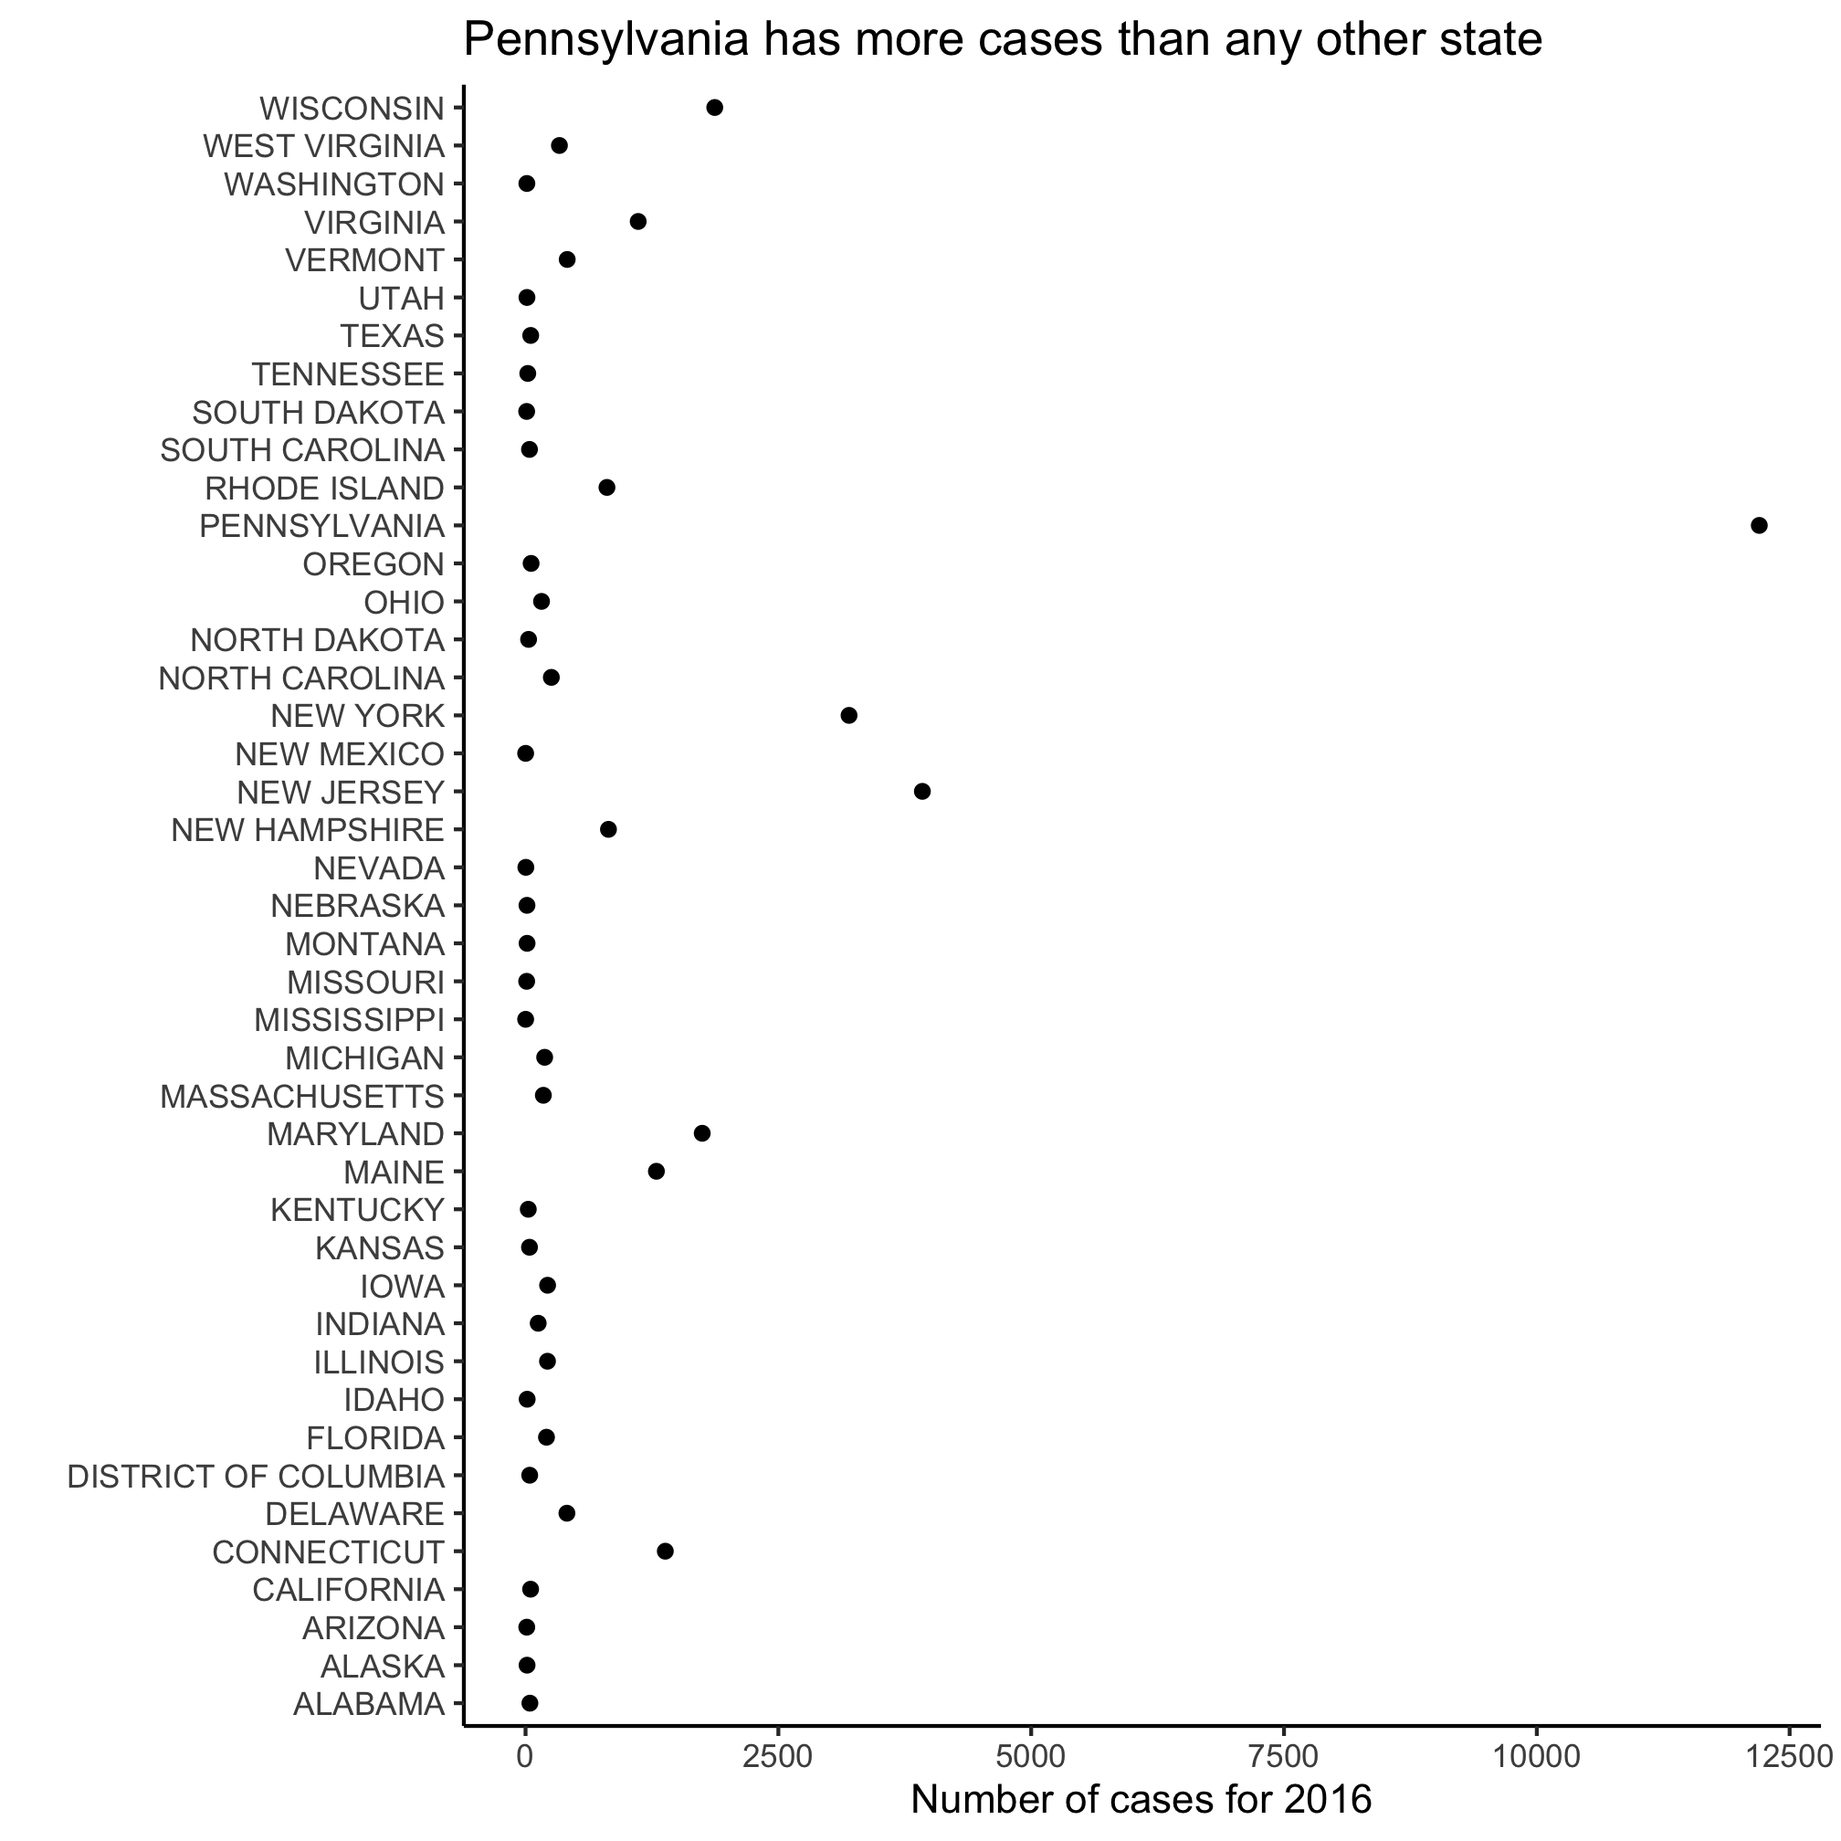
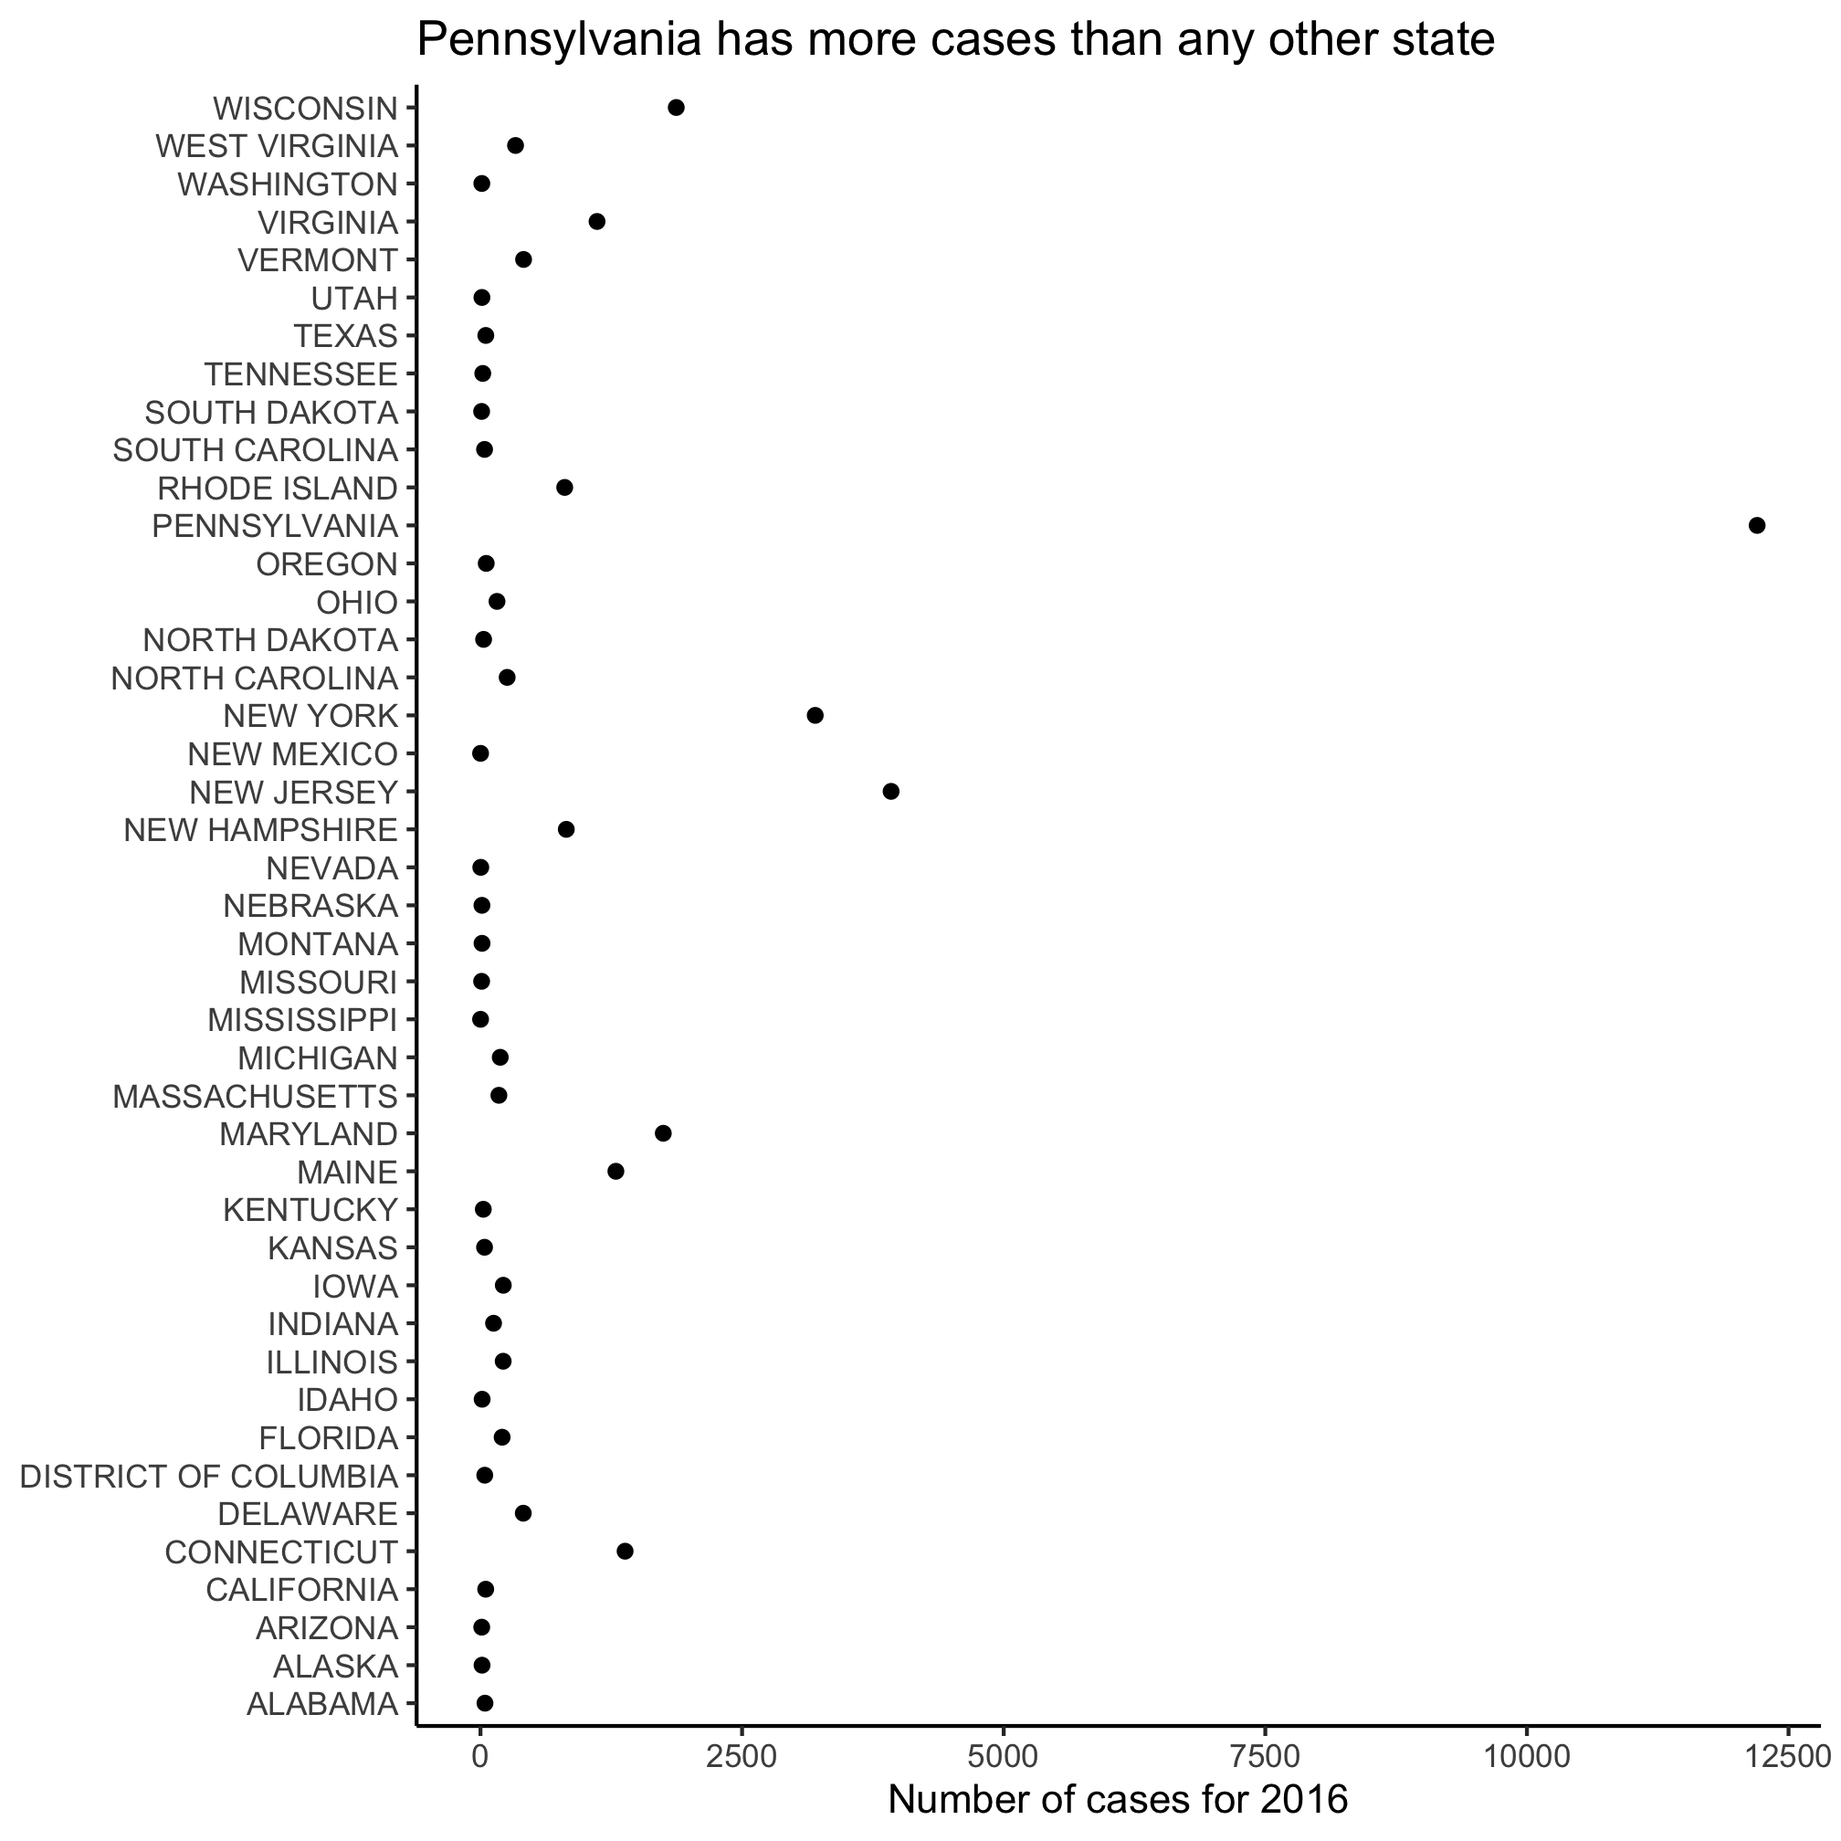
Fix tabbing issues

diff --git a/05_session.md b/05_session.md
@@ -23,7 +23,7 @@ library(tidyverse)
 library(lubridate)
 
 annual_state_counts <- read_csv("project_tycho/US.23502006.csv",
-					col_type=cols(PartOfCumulativeCountSeries = col_logical())) %>%
+			col_type=cols(PartOfCumulativeCountSeries = col_logical())) %>%
 	filter(PartOfCumulativeCountSeries) %>%
 	mutate(year = year(PeriodStartDate+7)) %>%
 	group_by(year, Admin1Name) %>%
@@ -90,7 +90,7 @@ I'd like to return to a line plot to represent these data, but I only want to de
 
 ```r
 read_csv("project_tycho/US.23502006.csv",
-					col_type=cols(PartOfCumulativeCountSeries = col_logical())) %>%
+			col_type=cols(PartOfCumulativeCountSeries = col_logical())) %>%
 	filter(PartOfCumulativeCountSeries, Admin1Name=="MICHIGAN")
 ```
 
@@ -119,7 +119,7 @@ read_csv("project_tycho/US.23502006.csv",
 
 ```r
 read_csv("project_tycho/US.23502006.csv",
-					col_type=cols(PartOfCumulativeCountSeries = col_logical())) %>%
+			col_type=cols(PartOfCumulativeCountSeries = col_logical())) %>%
 	filter(PartOfCumulativeCountSeries) %>%
 	filter(Admin1Name=="MICHIGAN")
 ```
@@ -151,7 +151,7 @@ Can you figure out how to know that these commands did what we hoped? If you wer
 
 ```r
 read_csv("project_tycho/US.23502006.csv",
-					col_type=cols(PartOfCumulativeCountSeries = col_logical())) %>%
+			col_type=cols(PartOfCumulativeCountSeries = col_logical())) %>%
 	filter(PartOfCumulativeCountSeries, Admin1Name=="MICHIGAN") %>%
 	count(Admin1Name)
 ```
@@ -168,7 +168,7 @@ In the first example we ask for those rows where `PartOfCumulativeCountSeries` i
 
 ```r
 read_csv("project_tycho/US.23502006.csv",
-					col_type=cols(PartOfCumulativeCountSeries = col_logical())) %>%
+			col_type=cols(PartOfCumulativeCountSeries = col_logical())) %>%
 	filter(PartOfCumulativeCountSeries & Admin1Name=="MICHIGAN") %>%
 	count(Admin1Name)
 ```
@@ -185,7 +185,7 @@ We also often want to ask "or" type questions. For example, "Does this row conta
 
 ```r
 read_csv("project_tycho/US.23502006.csv",
-					col_type=cols(PartOfCumulativeCountSeries = col_logical())) %>%
+			col_type=cols(PartOfCumulativeCountSeries = col_logical())) %>%
 	filter(PartOfCumulativeCountSeries) %>%
 	filter(Admin1Name=="PENNSYLVANIA" | Admin1Name=="MICHIGAN" | Admin1Name=="MISSOURI" ) %>%
 	count(Admin1Name)
@@ -205,7 +205,7 @@ It is perfectly acceptable to have two filter lines as we do here. Perhaps you'd
 
 ```r
 read_csv("project_tycho/US.23502006.csv",
-					col_type=cols(PartOfCumulativeCountSeries = col_logical())) %>%
+			col_type=cols(PartOfCumulativeCountSeries = col_logical())) %>%
 	filter(PartOfCumulativeCountSeries & (Admin1Name=="PENNSYLVANIA" | Admin1Name=="MICHIGAN" | Admin1Name=="MISSOURI")) %>%
 	count(Admin1Name)
 ```
@@ -224,7 +224,7 @@ There is a tradeoff between readability and code efficiency, but the key is that
 
 ```r
 annual_state_counts <- read_csv("project_tycho/US.23502006.csv",
-					col_type=cols(PartOfCumulativeCountSeries = col_logical())) %>%
+			col_type=cols(PartOfCumulativeCountSeries = col_logical())) %>%
 	filter(PartOfCumulativeCountSeries & (Admin1Name=="PENNSYLVANIA" | Admin1Name=="MICHIGAN" | Admin1Name=="MISSOURI")) %>%
 	mutate(year = year(PeriodStartDate+7)) %>%
 	group_by(year, Admin1Name) %>%
@@ -235,8 +235,8 @@ ggplot(annual_state_counts, aes(x=year, y=count, color=Admin1Name)) +
 	scale_y_continuous(limits=c(0,NA)) +
 	scale_x_continuous(breaks=c(1990, 1995, 2000, 2005, 2010, 2015)) +
 	labs(x="Year",
-			y="Annual number of cases",
-			title="The number of Lyme disease cases continues to increase each year") +
+		y="Annual number of cases",
+		title="The number of Lyme disease cases continues to increase each year") +
 	theme_classic()
 ```
 
@@ -266,7 +266,7 @@ First, `letters` is a variable built into R that contains the 26 lowercase lette
 upper_midwest_states <- c("MICHIGAN", "OHIO", "INDIANA", "WISCONSIN")
 
 annual_state_counts <- read_csv("project_tycho/US.23502006.csv",
-					col_type=cols(PartOfCumulativeCountSeries = col_logical())) %>%
+			col_type=cols(PartOfCumulativeCountSeries = col_logical())) %>%
 	filter(PartOfCumulativeCountSeries) %>%
  	filter(Admin1Name %in% upper_midwest_states) %>%
 	mutate(year = year(PeriodStartDate+7)) %>%
@@ -278,8 +278,8 @@ ggplot(annual_state_counts, aes(x=year, y=count, color=Admin1Name)) +
 	scale_y_continuous(limits=c(0,NA)) +
 	scale_x_continuous(breaks=c(1990, 1995, 2000, 2005, 2010, 2015)) +
 	labs(x="Year",
-			y="Annual number of cases",
-			title="The number of Lyme disease cases in Wisconsin has been higher\nthan other states in the upper midwest") +
+		y="Annual number of cases",
+		title="The number of Lyme disease cases in Wisconsin has been higher\nthan other states in the upper midwest") +
 	theme_classic()
 ```
 
@@ -296,7 +296,7 @@ We're going to move on to a different dataset in the next section. Before we do,
 states_map <- map_data("state")
 
 read_csv("project_tycho/US.23502006.csv",
-					col_type=cols(PartOfCumulativeCountSeries = col_logical())) %>%
+			col_type=cols(PartOfCumulativeCountSeries = col_logical())) %>%
 	filter(PartOfCumulativeCountSeries) %>%
 	mutate(year = year(PeriodStartDate+7)) %>%
 	group_by(year, Admin1Name) %>%
@@ -353,7 +353,7 @@ Things that still might look foreign...
 new_england <- c("MAINE", "VERMONT", "NEW HAMPSHIRE", "MASSACHUSETTS", "RHODE ISLAND", "CONNECTICUT")
 
 annual_state_counts <- read_csv("project_tycho/US.23502006.csv",
-					col_type=cols(PartOfCumulativeCountSeries = col_logical())) %>%
+			col_type=cols(PartOfCumulativeCountSeries = col_logical())) %>%
 	filter(PartOfCumulativeCountSeries) %>%
  	filter(Admin1Name %in% new_england) %>%
 	mutate(year = year(PeriodStartDate+7)) %>%
@@ -365,8 +365,8 @@ ggplot(annual_state_counts, aes(x=year, y=count, color=Admin1Name)) +
 	scale_y_continuous(limits=c(0,NA)) +
 	scale_x_continuous(breaks=c(1990, 1995, 2000, 2005, 2010, 2015)) +
 	labs(x="Year",
-			y="Annual number of cases",
-			title="Connecticut continues to have a significant number of Lyme Disease cases") +
+		y="Annual number of cases",
+		title="Connecticut continues to have a significant number of Lyme Disease cases") +
 	theme_classic()
 ```
 
@@ -380,7 +380,7 @@ ggplot(annual_state_counts, aes(x=year, y=count, color=Admin1Name)) +
 
 ```r
 state_counts <- read_csv("project_tycho/US.23502006.csv",
-					col_type=cols(PartOfCumulativeCountSeries = col_logical())) %>%
+			col_type=cols(PartOfCumulativeCountSeries = col_logical())) %>%
 	filter(PartOfCumulativeCountSeries) %>%
 	mutate(year = year(PeriodStartDate+7)) %>%
 	filter(year == 2016) %>%
@@ -391,8 +391,8 @@ ggplot(state_counts, aes(y=Admin1Name, x=count)) +
 	geom_point() +
 	scale_x_continuous(limits=c(0,NA)) +
 	labs(x="Number of cases for 2016",
-			y="",
-			title="Pennsylvania has more cases than any other state") +
+		y=NULL,
+		title="Pennsylvania has more cases than any other state") +
 	theme_classic()
 ```
 
@@ -428,7 +428,7 @@ chartr("ATGC", "TACG", dna)
 states_map <- map_data("state")
 
 read_csv("project_tycho/US.23502006.csv",
-					col_type=cols(PartOfCumulativeCountSeries = col_logical())) %>%
+			col_type=cols(PartOfCumulativeCountSeries = col_logical())) %>%
 	filter(PartOfCumulativeCountSeries) %>%
 	mutate(year = year(PeriodStartDate+7)) %>%
 	group_by(year, Admin1Name) %>%
@@ -451,7 +451,7 @@ read_csv("project_tycho/US.23502006.csv",
 states_map <- map_data("state", region = "michigan")
 
 read_csv("project_tycho/US.23502006.csv",
-					col_type=cols(PartOfCumulativeCountSeries = col_logical())) %>%
+			col_type=cols(PartOfCumulativeCountSeries = col_logical())) %>%
 	filter(PartOfCumulativeCountSeries) %>%
 	mutate(year = year(PeriodStartDate+7)) %>%
 	group_by(year, Admin1Name) %>%

diff --git a/02_session.md b/02_session.md
@@ -34,8 +34,8 @@ ggplot(annual_counts, aes(x=year, y=count)) +
 	scale_y_continuous(limits=c(0,NA)) +
 	scale_x_continuous(breaks=c(1990, 1995, 2000, 2005, 2010, 2015)) +
 	labs(x="Year",
-			y="Number of cases",
-			title="The number of Lyme disease cases has been rising since 1990") +
+		y="Number of cases",
+		title="The number of Lyme disease cases has been rising since 1990") +
 	theme_classic()
 ```
 
@@ -49,8 +49,8 @@ ggplot(annual_counts, aes(x=year, y=count)) +
 	scale_y_continuous(limits=c(0,NA)) +
 	scale_x_continuous(breaks=c(1990, 1995, 2000, 2005, 2010, 2015)) +
 	labs(x="Year",
-			y="Number of cases",
-			title="The number of Lyme disease cases has been rising since 1990") +
+		y="Number of cases",
+		title="The number of Lyme disease cases has been rising since 1990") +
 	theme_classic()
 ```
 
@@ -95,8 +95,8 @@ ggplot(annual_counts, aes(x=year, y=count)) +
 	scale_y_continuous(limits=c(0,NA)) +
 	scale_x_continuous(breaks=c(1990, 1995, 2000, 2005, 2010, 2015)) +
 	labs(x="Year",
-			y="Number of cases",
-			title="The number of Lyme disease cases has been rising since 1990") +
+		y="Number of cases",
+		title="The number of Lyme disease cases has been rising since 1990") +
 	theme_classic()
 ```
 
@@ -111,8 +111,8 @@ ggplot(annual_counts, aes(x=year, y=count)) +
 	scale_y_continuous(limits=c(0,NA)) +
 	scale_x_continuous(breaks=c(1990, 1995, 2000, 2005, 2010, 2015)) +
 	labs(x="Year",
-			y="Number of cases",
-			title="The number of Lyme disease cases has been rising since 1990") +
+		y="Number of cases",
+		title="The number of Lyme disease cases has been rising since 1990") +
 	theme_classic()
 ```
 
@@ -129,8 +129,8 @@ ggplot(annual_counts, aes(x=year, y=count)) +
 	scale_y_continuous(limits=c(0,NA)) +
 	scale_x_continuous(breaks=c(1990, 1995, 2000, 2005, 2010, 2015)) +
 	labs(x="Year",
-			y="Number of cases",
-			title="The number of Lyme disease cases has been rising since 1990") +
+		y="Number of cases",
+		title="The number of Lyme disease cases has been rising since 1990") +
 	theme_classic()
 ```
 
@@ -147,8 +147,8 @@ ggplot(annual_counts, aes(x=year, y=count)) +
 	scale_y_continuous(limits=c(0,NA)) +
 	scale_x_continuous(breaks=c(1990, 1995, 2000, 2005, 2010, 2015)) +
 	labs(x="Year",
-			y="Number of cases",
-			title="The number of Lyme disease cases has been rising since 1990") +
+		y="Number of cases",
+		title="The number of Lyme disease cases has been rising since 1990") +
 	theme_classic()
 ```
 
@@ -169,8 +169,8 @@ ggplot(annual_counts, aes(x=year, y=count)) +
 	scale_y_continuous(limits=c(0,NA)) +
 	scale_x_continuous(breaks=c(1990, 1995, 2000, 2005, 2010, 2015)) +
 	labs(x="Year",
-			y="Number of cases",
-			title="The number of Lyme disease cases has been rising since 1990") +
+		y="Number of cases",
+		title="The number of Lyme disease cases has been rising since 1990") +
 	theme_classic()
 ```
 
@@ -187,8 +187,8 @@ ggplot(annual_counts, aes(x=year, y=count)) +
 	scale_y_continuous(limits=c(0,NA)) +
 	scale_x_continuous(breaks=c(1990, 1995, 2000, 2005, 2010, 2015)) +
 	labs(x="Year",
-			y="Number of cases",
-			title="The number of Lyme disease cases has been rising since 1990") +
+		y="Number of cases",
+		title="The number of Lyme disease cases has been rising since 1990") +
 	theme_classic()
 ```
 
@@ -273,8 +273,8 @@ ggplot(annual_counts, aes(x=year, y=count, shape=year)) +
 	scale_y_continuous(limits=c(0,NA)) +
 	scale_x_continuous(breaks=c(1990, 1995, 2000, 2005, 2010, 2015)) +
 	labs(x="Year",
-			y="Number of cases",
-			title="The number of Lyme disease cases has been rising since 1990") +
+		y="Number of cases",
+		title="The number of Lyme disease cases has been rising since 1990") +
 	theme_classic()
 ```
 
@@ -293,8 +293,8 @@ ggplot(annual_counts, aes(x=year, y=count, color=year)) +
 	scale_y_continuous(limits=c(0,NA)) +
 	scale_x_continuous(breaks=c(1990, 1995, 2000, 2005, 2010, 2015)) +
 	labs(x="Year",
-			y="Number of cases",
-			title="The number of Lyme disease cases has been rising since 1990") +
+		y="Number of cases",
+		title="The number of Lyme disease cases has been rising since 1990") +
 	theme_classic()
 ```
 

diff --git a/01_session.md b/01_session.md
@@ -37,7 +37,7 @@ library(tidyverse)
 library(lubridate)
 
 annual_counts <- read_csv("project_tycho/US.23502006.csv",
-					col_type=cols(PartOfCumulativeCountSeries = col_logical())) %>%
+			col_type=cols(PartOfCumulativeCountSeries = col_logical())) %>%
 	filter(PartOfCumulativeCountSeries) %>%
 	mutate(year = year(PeriodStartDate+7)) %>%
 	group_by(year) %>%
@@ -48,8 +48,8 @@ ggplot(annual_counts, aes(x=year, y=count)) +
 	scale_y_continuous(limits=c(0,NA)) +
 	scale_x_continuous(breaks=c(1990, 1995, 2000, 2005, 2010, 2015)) +
 	labs(x="Year",
-			y="Number of cases",
-			title="The number of Lyme disease cases has been rising since 1990") +
+		y="Number of cases",
+		title="The number of Lyme disease cases has been rising since 1990") +
 	theme_classic()
 
 ggsave("lyme_disease_annual_counts.pdf", width=6, height=4)
@@ -81,8 +81,8 @@ ggplot(annual_counts, aes(x=year, y=count)) +
 	scale_y_continuous(limits=c(0,NA)) +
 #	scale_x_continuous(breaks=c(1990, 1995, 2000, 2005, 2010, 2015)) +
 	labs(x="Year",
-			y="Number of cases",
-			title="The number of Lyme disease cases has been rising since 1990") +
+		y="Number of cases",
+		title="The number of Lyme disease cases has been rising since 1990") +
 	theme_classic()
 ```
 
@@ -91,7 +91,7 @@ ggplot(annual_counts, aes(x=year, y=count)) +
 Notice a difference? Try this with other lines in the code chunk and see if you can figure out what each line does. Feel free to play with the code by changing argument values. That is how many people, including me, have learned to program in R! You can keep copies of code that works to go back to. You aren't going to break anything by experimenting.
 
 
-## Exercises:
+## Exercises
 1\. What line of code is responsible for generating the line in the plot?
 
 <input type="button" class="hideshow">

diff --git a/04_session.md b/04_session.md
@@ -41,7 +41,7 @@ If I run the `read_csv` command, I'll get an abbreviated view of the data frame
 
 ```r
 read_csv("project_tycho/US.23502006.csv",
-		col_type=cols(PartOfCumulativeCountSeries = col_logical()))
+	col_type=cols(PartOfCumulativeCountSeries = col_logical()))
 ```
 
 ```
@@ -515,5 +515,4 @@ read_csv("project_tycho/US.23502006.csv",
 ## 52 WISCONSIN              870
 ## 53 WYOMING                699
 ```
-
 </div>
